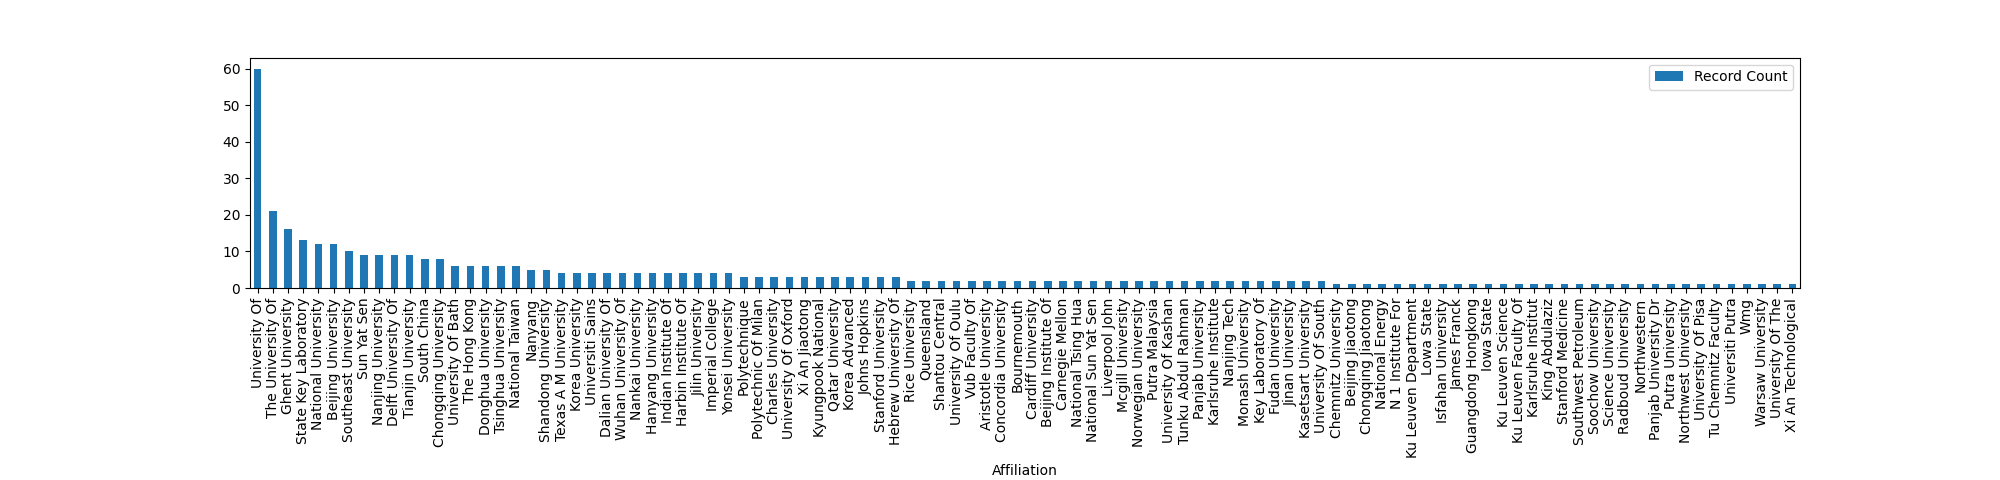
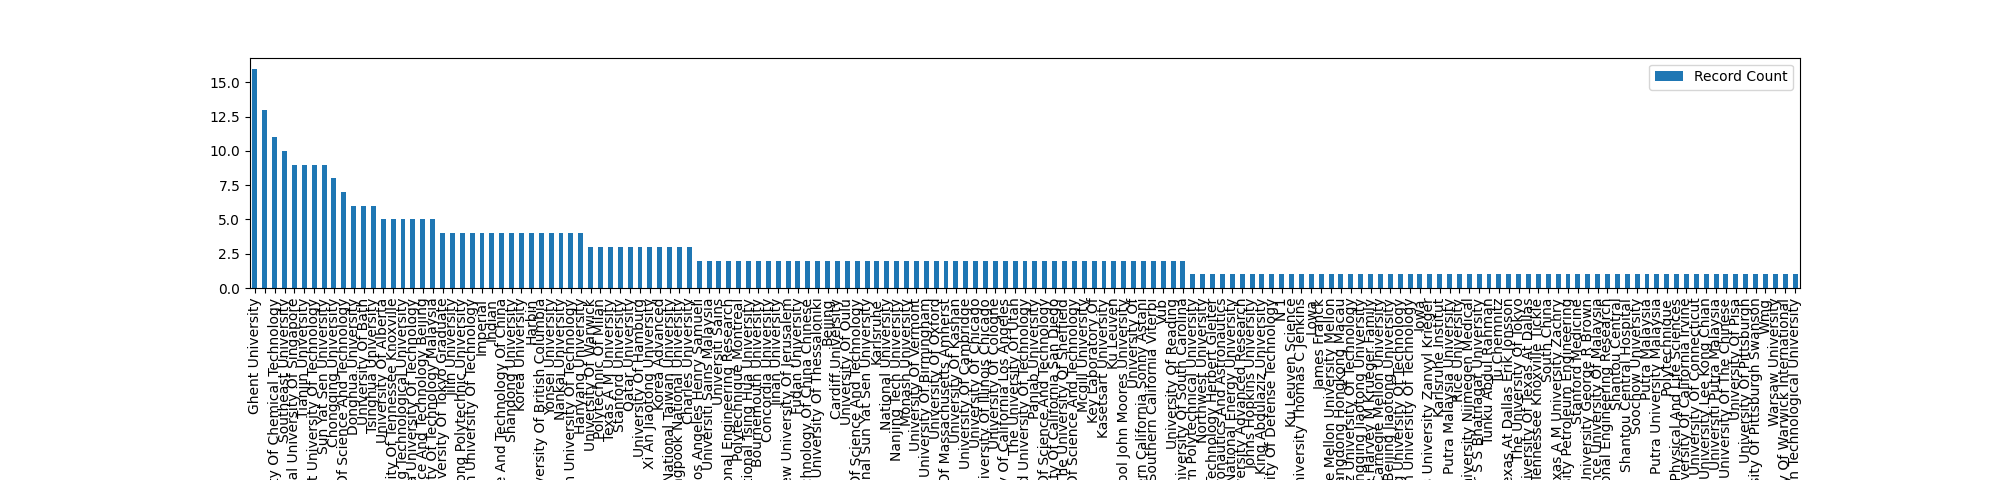
improved affiliation seperation

Changed region(s): [[0.093, 0.2188, 0.899, 1.0], [0.093, 0.125, 0.124, 0.1875]]

diff --git a/graph_creation.py b/graph_creation.py
@@ -21,10 +21,39 @@ for i, line in enumerate(lines):
         data.append([parts[0]] + [department] + parts[1:])
 
 # Convert the processed data to a DataFrame
-df_affiliation = pd.DataFrame(data, columns=["Affiliation", " Department", "Record Count", "% of 281"])
+df_affiliation = pd.DataFrame(data, columns=["Affiliation", "Department", "Record Count", "% of 281"])
 df_affiliation['Record Count'] = pd.to_numeric(df_affiliation['Record Count'], downcast='integer', errors='coerce')
-unique_affiliations = df_affiliation['Affiliation'].unique()
-unique_affiliations_count = [sum(df_affiliation[df_affiliation["Affiliation"] == a]['Record Count']) for a in unique_affiliations]
+
+df_affiliation["Concat_Affiliation"] = df_affiliation["Affiliation"] + " " + df_affiliation["Department"]
+new_affiliations = []
+new_departsments = []
+for j, name in enumerate(df_affiliation["Concat_Affiliation"]):
+    parts = name.split(" ")
+    found = False
+    for i, part in enumerate(parts):
+        if part in ["Center","Division", "College", "School", "Faculty", "Academy", "Department", 'Shunde', 'Institute', 'State']:
+            affiliation = " ".join(parts[:i])
+            department = " ".join(parts[i:])
+            new_affiliations.append(affiliation)
+            new_departsments.append(department)
+            # print(affiliation)
+            # print(department)
+            # print(" ")
+            found=True
+            break
+    if not found:
+        new_affiliations.append(df_affiliation["Affiliation"][j])
+        new_departsments.append(df_affiliation["Department"][j])
+        print("Not Rearranged:" )
+        print(df_affiliation["Affiliation"][j])
+        print(df_affiliation["Department"][j])
+        print(" ")
+
+df_affiliation["Affiliation_new"] = new_affiliations
+df_affiliation["Department_new"] = new_departsments
+
+unique_affiliations = df_affiliation['Affiliation_new'].unique()
+unique_affiliations_count = [sum(df_affiliation[df_affiliation["Affiliation_new"] == a]['Record Count']) for a in unique_affiliations]
 
 df_affiliation_unique = pd.DataFrame(
     {'Affiliation': unique_affiliations,
@@ -67,9 +96,9 @@ df_years['Record Count'] = pd.to_numeric(df_years['Record Count'], downcast='int
 df_years.sort_values("Publication Years", inplace=True, ascending=True)
 # df_years.sort_values("Record count", inplace=True)
 # Display the DataFrame
-print(df_affiliation.head())
-print(df_countries.head())
-print(df_years.head())
+# print(df_affiliation.head())
+# print(df_countries.head())
+# print(df_years.head())
 
 ax = df_affiliation_unique.plot.bar(x="Affiliation", y="Record Count")
 affiliation_plot_path = os.path.join(dirname, r"graphs/affiliation with departments")
